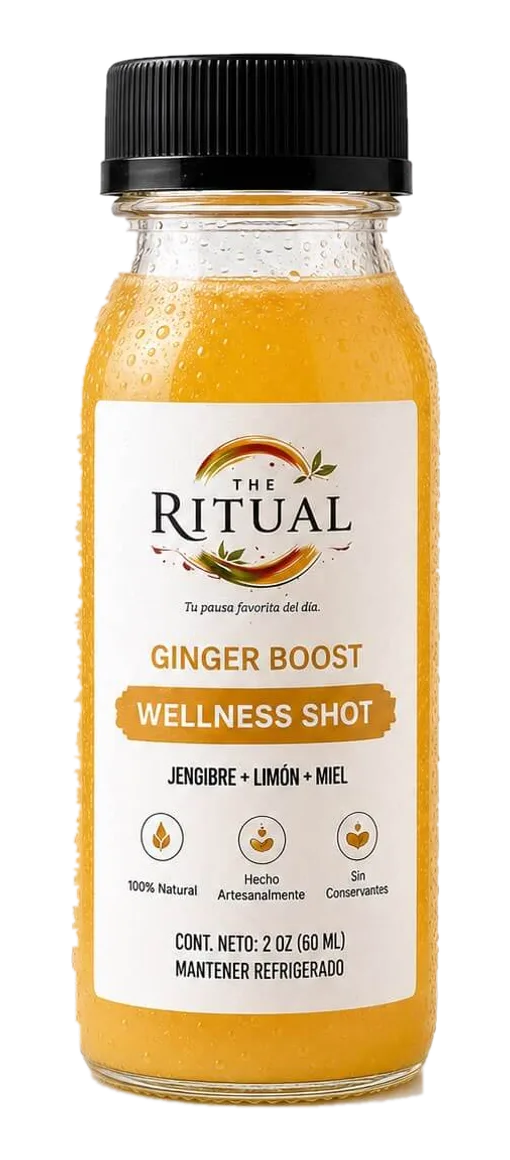
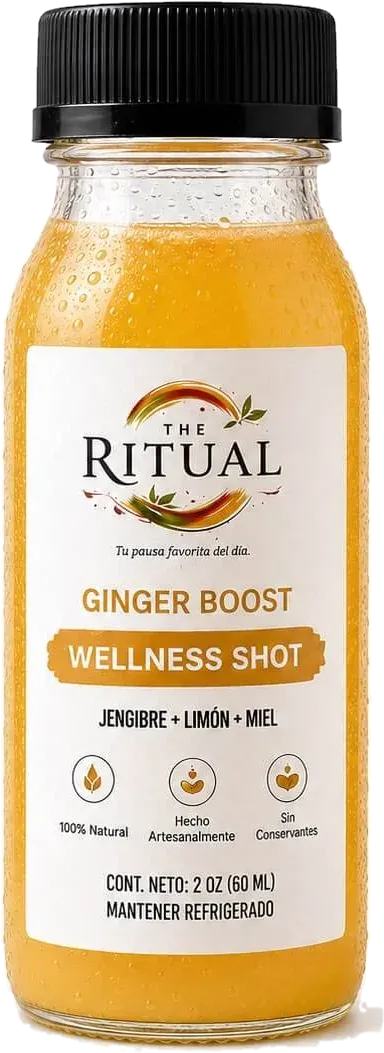
Change style shops

diff --git a/_shot_cutout.js b/_shot_cutout.js
@@ -1,0 +1,96 @@
+const sharp = require("sharp");
+
+async function cutout(inputPath, outputPath) {
+  const img = sharp(inputPath).removeAlpha();
+  const { data, info } = await img.raw().toBuffer({ resolveWithObject: true });
+  const { width, height, channels } = info;
+
+  const isBg = new Uint8Array(width * height);
+  const visited = new Uint8Array(width * height);
+  const queue = new Int32Array(width * height);
+  let qHead = 0;
+  let qTail = 0;
+
+  function fillable(idx) {
+    const o = idx * channels;
+    const r = data[o];
+    const g = data[o + 1];
+    const b = data[o + 2];
+    const min = Math.min(r, g, b);
+    const max = Math.max(r, g, b);
+    return min >= 200 && max - min <= 12;
+  }
+
+  function tryPush(idx) {
+    if (visited[idx]) return;
+    visited[idx] = 1;
+    if (fillable(idx)) {
+      isBg[idx] = 1;
+      queue[qTail++] = idx;
+    }
+  }
+
+  for (let x = 0; x < width; x++) {
+    tryPush(x);
+    tryPush((height - 1) * width + x);
+  }
+  for (let y = 0; y < height; y++) {
+    tryPush(y * width);
+    tryPush(y * width + (width - 1));
+  }
+
+  while (qHead < qTail) {
+    const idx = queue[qHead++];
+    const x = idx % width;
+    const y = (idx / width) | 0;
+    if (x > 0) tryPush(idx - 1);
+    if (x < width - 1) tryPush(idx + 1);
+    if (y > 0) tryPush(idx - width);
+    if (y < height - 1) tryPush(idx + width);
+  }
+
+  const alpha = Buffer.alloc(width * height);
+  for (let i = 0; i < width * height; i++) {
+    alpha[i] = isBg[i] ? 0 : 255;
+  }
+
+  const blurredResult = await sharp(alpha, { raw: { width, height, channels: 1 } })
+    .blur(1.1)
+    .raw()
+    .toBuffer({ resolveWithObject: true });
+  const blurChannels = blurredResult.info.channels;
+  const blurred = blurredResult.data;
+  const alphaSoft = Buffer.alloc(width * height);
+  for (let i = 0; i < width * height; i++) {
+    alphaSoft[i] = blurred[i * blurChannels];
+  }
+
+  const rgba = Buffer.alloc(width * height * 4);
+  for (let i = 0; i < width * height; i++) {
+    rgba[i * 4] = data[i * channels];
+    rgba[i * 4 + 1] = data[i * channels + 1];
+    rgba[i * 4 + 2] = data[i * channels + 2];
+    rgba[i * 4 + 3] = alphaSoft[i];
+  }
+
+  const out = await sharp(rgba, { raw: { width, height, channels: 4 } })
+    .trim({ threshold: 10 })
+    .webp({ quality: 82, effort: 6 })
+    .toBuffer({ resolveWithObject: true });
+
+  await sharp(out.data).toFile(outputPath);
+  return out.info;
+}
+
+(async () => {
+  const jobs = [
+    ["assets/photos/new image/Red Vitality.webp", "public/products/shot-red-vitality-bottle.webp"],
+    ["assets/photos/new image/Turmeric Defense.webp", "public/products/shot-tumeric-defense-bottle.webp"],
+    ["assets/photos/new image/ShotGinger.jpeg", "public/products/shot-ginger-boost-bottle.webp"],
+    ["assets/photos/new image/ShotGreen.jpeg", "public/products/shot-green-detox-bottle.webp"],
+  ];
+  for (const [input, output] of jobs) {
+    const info = await cutout(input, output);
+    console.log(output, info.width, info.height, (info.width / info.height).toFixed(4));
+  }
+})();

diff --git a/_shot_screenshot2.js b/_shot_screenshot2.js
@@ -1,0 +1,57 @@
+const puppeteer = require("puppeteer-core");
+const path = require("path");
+const CHROME = "C:\\Program Files\\Google\\Chrome\\Application\\chrome.exe";
+const OUT_DIR =
+  "C:\\Users\\SEBAST~1\\AppData\\Local\\Temp\\claude\\c--Users-Sebastian-Documents-Web-Fermento\\254621ed-b1e6-4e6a-b33b-5f853f278df2\\scratchpad";
+
+async function shoot(width, label) {
+  const browser = await puppeteer.launch({ executablePath: CHROME, headless: "new" });
+  const page = await browser.newPage();
+  await page.setViewport({ width, height: 1200 });
+  await page.goto("http://localhost:3000", { waitUntil: "networkidle0" });
+  await page.evaluate(async () => {
+    await new Promise((resolve) => {
+      let total = 0;
+      const step = 400;
+      const timer = setInterval(() => {
+        window.scrollBy(0, step);
+        total += step;
+        if (total >= document.body.scrollHeight) {
+          clearInterval(timer);
+          resolve();
+        }
+      }, 80);
+    });
+    window.scrollTo(0, 0);
+  });
+  await page.evaluate(() => document.fonts.ready);
+  await new Promise((r) => setTimeout(r, 600));
+  const el = await page.$("#cat-shots");
+  await el.scrollIntoView();
+  await new Promise((r) => setTimeout(r, 600));
+  await el.screenshot({ path: path.join(OUT_DIR, `shots3-${label}.png`) });
+
+  const data = await page.evaluate(() => {
+    const articles = document.querySelectorAll("#cat-shots article");
+    return Array.from(articles).map((art) => {
+      const imgs = art.querySelectorAll("img");
+      const bottleImg = imgs[imgs.length - 1];
+      const rect = bottleImg.getBoundingClientRect();
+      return {
+        name: art.querySelector("h4")?.textContent,
+        renderedW: Math.round(rect.width),
+        renderedH: Math.round(rect.height),
+      };
+    });
+  });
+  console.log(`width=${width}`, JSON.stringify(data));
+
+  await browser.close();
+  console.log("done", label);
+}
+
+(async () => {
+  await shoot(1440, "desktop");
+  await shoot(768, "tablet");
+  await shoot(375, "mobile");
+})();

diff --git a/components/product-grid/shots-feature.tsx b/components/product-grid/shots-feature.tsx
@@ -102,7 +102,7 @@ function ShotRow({ product }: { product: Product }) {
             width={510}
             height={1160}
             sizes="(max-width: 1024px) 45vw, 22vw"
-            className="pointer-events-none relative z-10 h-[90%] w-auto max-w-[78%] object-contain pt-4 transition-transform duration-500 group-hover:-translate-y-1"
+            className="pointer-events-none relative z-10 h-[90%] w-auto max-w-[98%] object-contain pt-4 transition-transform duration-500 group-hover:-translate-y-1"
             style={{
               filter:
                 "drop-shadow(0 10px 12px color-mix(in srgb, var(--color-forest-deep) 24%, transparent))",

diff --git a/lib/data/products.ts b/lib/data/products.ts
@@ -330,7 +330,7 @@ export const products: Product[] = [
     ],
     badges: ["SIN CONSERVANTES", "100% NATURAL"],
     accent: "beet",
-    image: null,
+    image: "/products/shot-red-vitality-bottle.webp",
     price: 165,
   },
   {
@@ -387,7 +387,7 @@ export const products: Product[] = [
     ],
     badges: ["SIN CONSERVANTES", "100% NATURAL"],
     accent: "pina",
-    image: null,
+    image: "/products/shot-tumeric-defense-bottle.webp",
     price: 137,
   },
 
